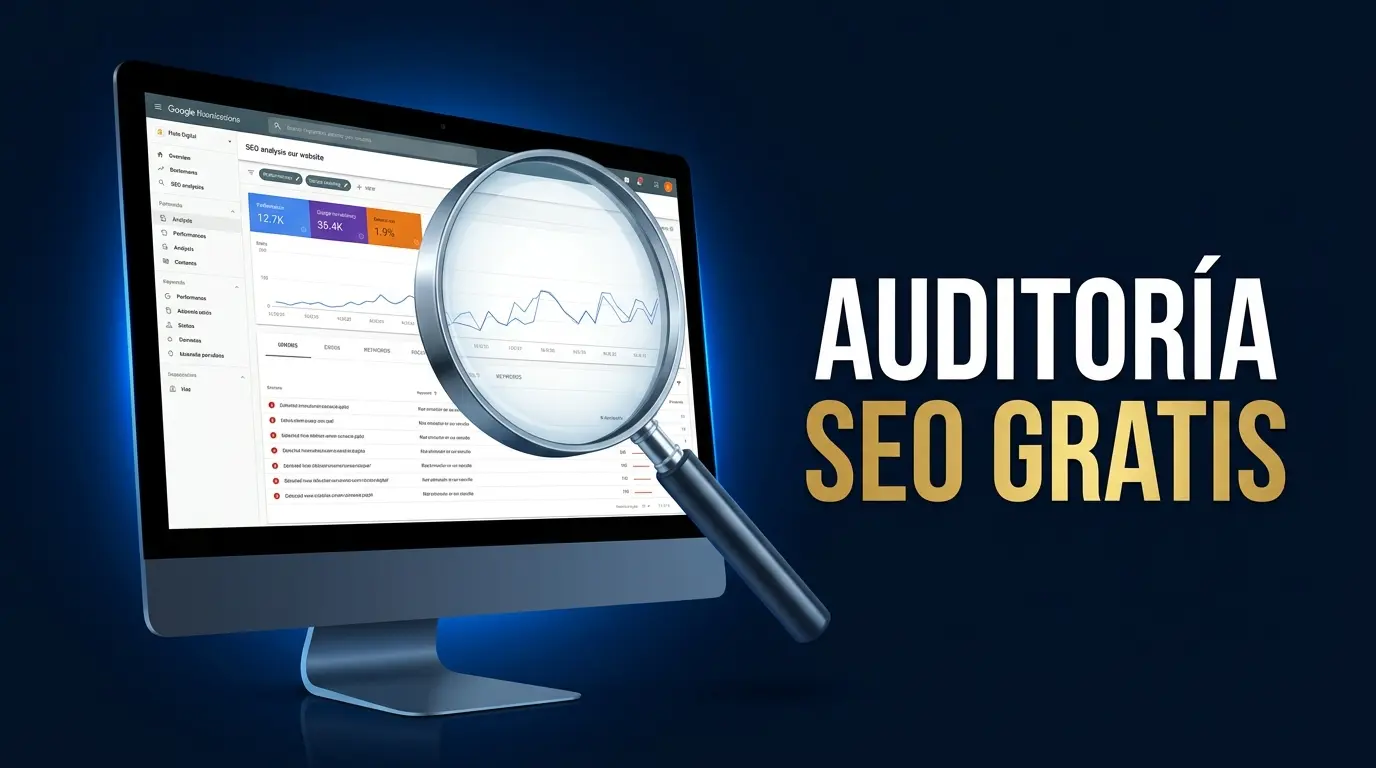
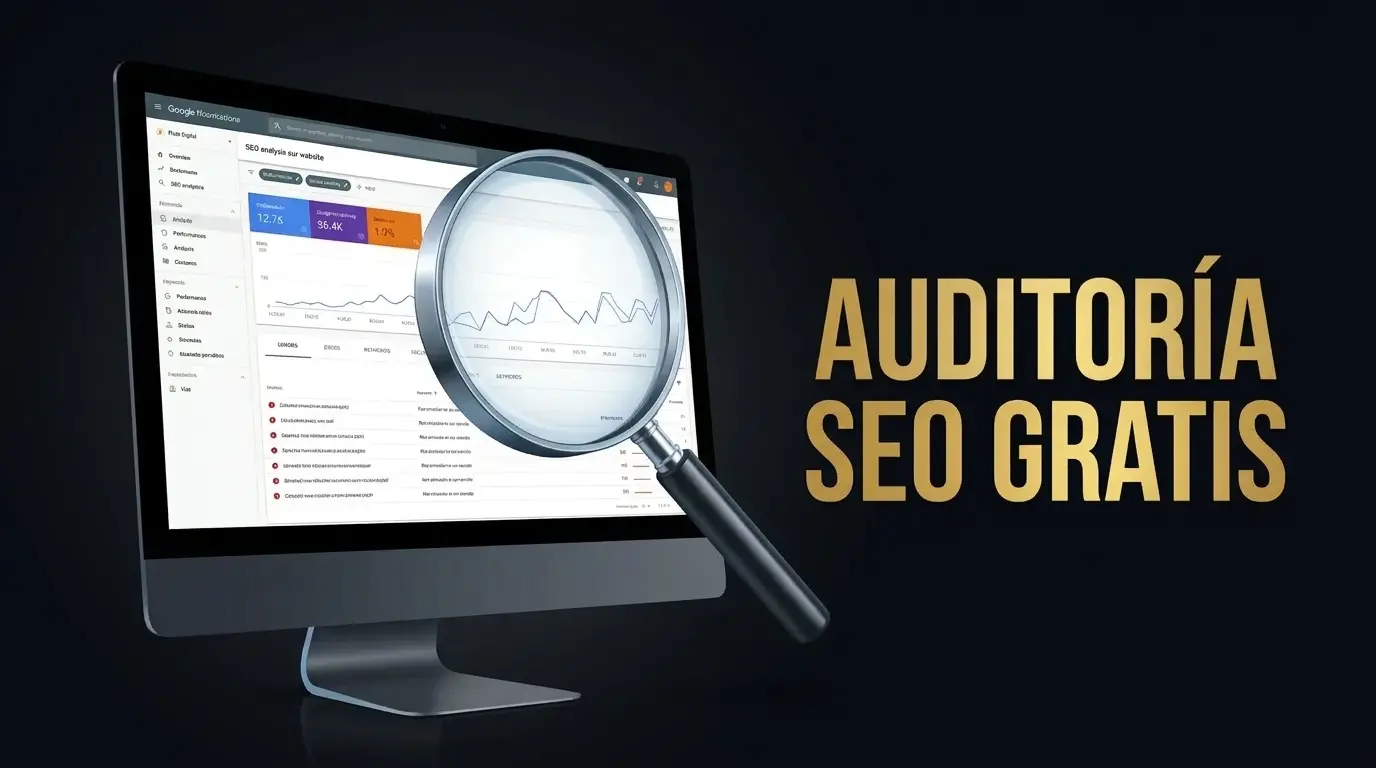
Actualizar sitio web

Changed region(s): [[0.0, 0.0, 0.9375, 1.0], [0.75, 0.5625, 0.7812, 0.5938], [0.7188, 0.5938, 0.75, 0.625]]

diff --git a/index.html b/index.html
@@ -28,16 +28,15 @@
       content="Páginas Web para Negocios - Diseño Web Profesional Misiones"
     />
     <meta
-      property="og:description"
-      content="Diseño y desarrollo web profesional. Páginas web para negocios, servicios profesionales e inmobiliarias en Misiones."
-    />
-    <meta
       property="og:image"
-      content="https://frutodigital.com/assets/imagen/hero-generica.webp"
+      content="https://frutodigital.com/assets/imagen/og-image.webp"
     />
     <meta property="og:url" content="https://frutodigital.com/" />
     <meta property="og:type" content="website" />
-    <meta property="og:site_name" content="Fruto Digital" />
+    <meta
+      property="og:image:alt"
+      content="Diseño y desarrollo web profesional para negocios en Misiones, Argentina"
+    />
     <meta property="og:locale" content="es_AR" />
 
     <!-- TWITTER CARD -->
@@ -52,7 +51,7 @@
     />
     <meta
       name="twitter:image"
-      content="https://frutodigital.com/assets/imagen/hero-generica.webp"
+      content="https://frutodigital.com/assets/imagen/og-image.webp"
     />
 
     <!-- FAVICON -->
@@ -498,7 +497,7 @@
               "latitude": -27.0333,
               "longitude": -55.2167
             },
-            "image": "https://frutodigital.com/assets/imagen/hero-generica.webp",
+            "image": "https://frutodigital.com/assets/imagen/og-image.webp",
             "areaServed": [
               {
                 "@type": "City",
